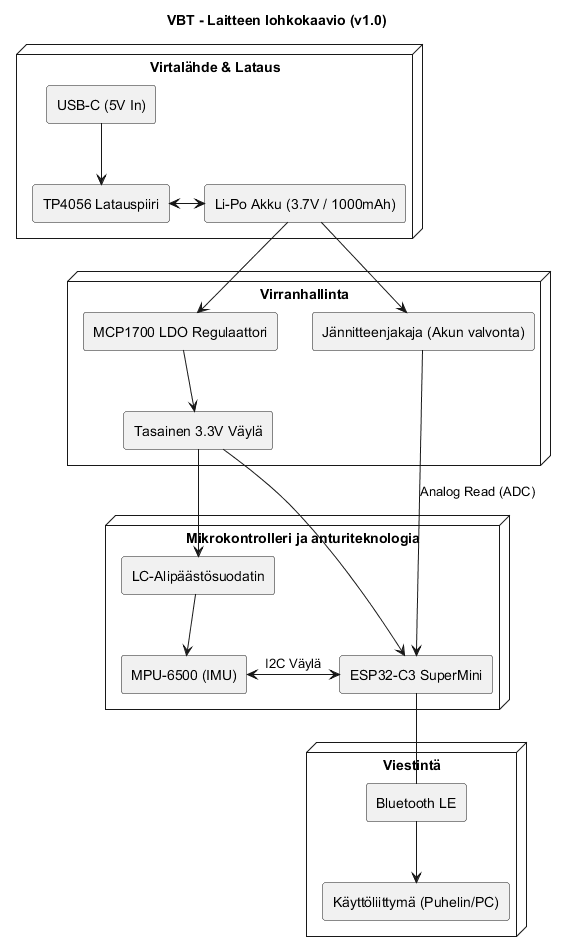
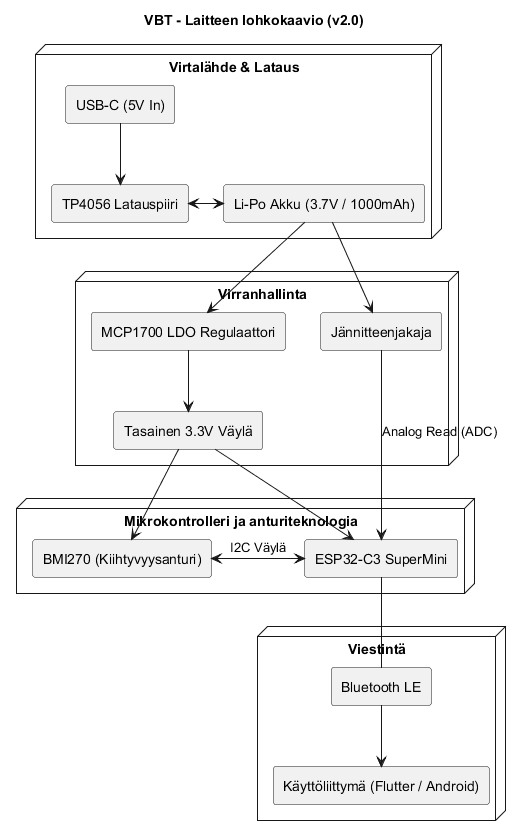
lohkokaavio paivitetty

diff --git a/flutter/lib/screens/main.dart b/flutter/lib/screens/main.dart
@@ -1,0 +1,341 @@
+import 'package:flutter/material.dart';
+import 'package:flutter_application_1/models/exercise_model.dart';
+import 'package:flutter_application_1/services/ble_service.dart';
+import 'package:flutter_application_1/widgets/velocity_chart.dart';
+import 'package:fl_chart/fl_chart.dart';
+import 'package:flutter_blue_plus/flutter_blue_plus.dart';
+import 'package:audioplayers/audioplayers.dart';
+
+void main() {
+  runApp(const VBTApp());
+}
+
+class VBTApp extends StatelessWidget {
+  const VBTApp({super.key});
+
+  @override
+  Widget build(BuildContext context) {
+    return MaterialApp(
+      title: 'VBT Pro',
+      theme: ThemeData.dark().copyWith(
+        primaryColor: Colors.cyanAccent,
+        scaffoldBackgroundColor: const Color(0xFF121212),
+      ),
+      home: const VBTPage(),
+      debugShowCheckedModeBanner: false,
+    );
+  }
+}
+
+class VBTPage extends StatefulWidget {
+  const VBTPage({super.key});
+
+  @override
+  State<VBTPage> createState() => _VBTPageState();
+}
+
+class _VBTPageState extends State<VBTPage> {
+  final BLEService _bleService = BLEService();
+
+
+  final AudioPlayer _audioPlayer = AudioPlayer(); // Äänisoitin
+  int _repCount = 0;// Toistolaskuri
+
+
+
+  ExerciseTarget _currentExercise = exerciseData["Takakyykky"]!;
+
+  List<FlSpot> _spots = [];
+  double _currentVelocity = 0.0;
+  double _xValue = 0.0;
+  bool _isRecording = false;
+  bool _isConnected = false;
+  int _batteryLevel = 0;
+  
+  double _peakOfRep = 0.0;     // Toiston korkein nopeus
+  double _meanOfRep = 0.0;     // Toiston keskinopeus
+  List<double> _repSamples = []; // Tämän hetkisen toiston kaikki näytteet
+
+  @override
+  void initState() {
+    super.initState();
+
+  _bleService.velocityStream.listen((velocity) {
+    if (mounted) {
+      setState(() {
+        _currentVelocity = velocity;
+
+        if (_isRecording) {
+          _xValue += 1;
+          _spots.add(FlSpot(_xValue, velocity));
+
+          if (velocity > 0.15) {
+            _repSamples.add(velocity);
+            if (velocity > _peakOfRep) _peakOfRep = velocity;
+          }else if (velocity <= 0.1 && _repSamples.length > 3) {
+            // TOISTO PÄÄTTYI
+            _meanOfRep = _repSamples.reduce((a, b) => a + b) / _repSamples.length;
+            _repSamples.clear();
+            
+            _repCount++; // Kasvatetaan laskuria
+            
+            // SOITETAAN ÄÄNIMERKKI (lyhyt piippaus)
+            _audioPlayer.play(AssetSource('beep.mp3')); 
+
+          }
+        }
+      });
+    }
+  });
+
+    _bleService.batteryStream.listen((level) {
+  if (mounted) {
+    setState(() => _batteryLevel = level);
+  }
+  });
+  }
+
+  // APUFUNKTIO VÄRILLE
+  Color _getHeroColor() {
+    double valueToCompare = (_currentExercise.id == 0 || _currentExercise.id >= 4) 
+        ? _peakOfRep 
+        : _meanOfRep;
+
+    // Jos ollaan liikkeessä, käytetään reaaliaikaista väriä, muuten viimeisintä tulosta
+    if (_currentVelocity > 0.1) valueToCompare = _currentVelocity;
+
+    if (valueToCompare == 0) return Colors.white;
+    if (valueToCompare < _currentExercise.minTarget) return Colors.redAccent;
+    if (valueToCompare > _currentExercise.maxTarget) return Colors.blueAccent;
+    return Colors.greenAccent;
+  }
+
+  Future<void> _handleConnect() async {
+    setState(() => _isConnected = false);
+    try {
+      await FlutterBluePlus.startScan(timeout: const Duration(seconds: 4));
+      if (mounted) _showDevicePicker();
+    } catch (e) {
+      debugPrint("Skannausvirhe: $e");
+    }
+  }
+
+  void _showDevicePicker() {
+    showModalBottomSheet(
+      context: context,
+      shape: const RoundedRectangleBorder(borderRadius: BorderRadius.vertical(top: Radius.circular(20))),
+      builder: (context) {
+        return StreamBuilder<List<ScanResult>>(
+          stream: FlutterBluePlus.scanResults,
+          initialData: const [],
+          builder: (context, snapshot) {
+            final results = snapshot.data ?? [];
+            final filteredResults = results.where((r) => r.device.platformName.isNotEmpty).toList();
+            return Column(
+              mainAxisSize: MainAxisSize.min,
+              children: [
+                const Padding(
+                  padding: EdgeInsets.all(16.0),
+                  child: Text("Valitse VBT-Sensori", style: TextStyle(fontSize: 18, fontWeight: FontWeight.bold)),
+                ),
+                if (filteredResults.isEmpty) const Padding(padding: EdgeInsets.all(20.0), child: CircularProgressIndicator()),
+                Expanded(
+                  child: ListView.builder(
+                    itemCount: filteredResults.length,
+                    itemBuilder: (context, index) {
+                      final r = filteredResults[index];
+                      return ListTile(
+                        leading: const Icon(Icons.bluetooth),
+                        title: Text(r.device.platformName),
+                        onTap: () async {
+                          Navigator.pop(context);
+                          await FlutterBluePlus.stopScan();
+                          await _bleService.connect(r.device);
+                          if (mounted) setState(() => _isConnected = true);
+                        },
+                      );
+                    },
+                  ),
+                ),
+              ],
+            );
+          },
+        );
+      },
+    );
+  }
+
+  void _handleDisconnect() {
+    _bleService.device?.disconnect();
+    setState(() {
+      _isConnected = false;
+      _batteryLevel = 0;
+    });
+  }
+
+  @override
+  Widget build(BuildContext context) {
+    // Lasketaan näytettävä arvo
+    String displayValue = _currentVelocity.toStringAsFixed(2);
+    if (_currentVelocity < 0.1 && (_peakOfRep > 0 || _meanOfRep > 0)) {
+      displayValue = (_currentExercise.id == 0 || _currentExercise.id >= 4)
+          ? _peakOfRep.toStringAsFixed(2)
+          : _meanOfRep.toStringAsFixed(2);
+    }
+
+    return Scaffold(
+      appBar: AppBar(
+        title: const Text("VBT ANALYZER"),
+        actions: [
+          if (_isConnected) 
+            Center(child: Padding(
+              padding: const EdgeInsets.only(right: 16.0),
+              child: Text("$_batteryLevel%", style: const TextStyle(color: Colors.greenAccent, fontWeight: FontWeight.bold)),
+            )),
+        ],
+      ),
+      body: Column(
+        children: [
+          Padding(
+            padding: const EdgeInsets.all(8.0),
+            child: Row(
+              children: [
+                Expanded(
+                  child: ElevatedButton.icon(
+                    icon: Icon(_isConnected ? Icons.bluetooth_connected : Icons.bluetooth),
+                    label: Text(_isConnected ? "YHDISTETTY" : "YHDISTÄ"),
+                    onPressed: _isConnected ? null : _handleConnect,
+                    style: ElevatedButton.styleFrom(backgroundColor: Colors.blueGrey),
+                  ),
+                ),
+                const SizedBox(width: 8),
+                IconButton(
+                  icon: const Icon(Icons.bluetooth_disabled, color: Colors.redAccent),
+                  onPressed: _isConnected ? _handleDisconnect : null,
+                ),
+              ],
+            ),
+          ),
+
+          Padding(
+            padding: const EdgeInsets.symmetric(horizontal: 16.0),
+            child: Container(
+              padding: const EdgeInsets.symmetric(horizontal: 12),
+              decoration: BoxDecoration(
+                borderRadius: BorderRadius.circular(8),
+                border: Border.all(color: Colors.cyanAccent.withOpacity(0.5)),
+              ),
+              child: DropdownButtonHideUnderline(
+                child: DropdownButton<String>(
+                  value: _currentExercise.name,
+                  isExpanded: true,
+                  items: exerciseData.keys.map((String key) {
+                    return DropdownMenuItem<String>(value: key, child: Text(key));
+                  }).toList(),
+                  onChanged: (String? newValue) {
+                    if (newValue != null) {
+                      setState(() {
+                        _currentExercise = exerciseData[newValue]!;
+                        _bleService.sendExercise(_currentExercise.id);
+                        // Nollataan edellisen liikkeen huiput
+                        _peakOfRep = 0;
+                        _meanOfRep = 0;
+                      });
+                    }
+                  },
+                ),
+              ),
+            ),
+          ),
+
+          Expanded(
+            flex: 2,
+            child: Center(
+              child: Column(
+                mainAxisAlignment: MainAxisAlignment.center,
+                children: [
+                  // --- TÄSSÄ ON UUSI LASKURI ---
+                  Text(
+                    "REPS: $_repCount",
+                    style: const TextStyle(
+                      fontSize: 30, 
+                      color: Colors.cyanAccent, 
+                      fontWeight: FontWeight.bold
+                    ),
+                  ),
+                  const SizedBox(height: 10), // Pieni väli laskurin ja nopeuden välissä
+                  
+                  Text(
+                    displayValue,
+                    style: TextStyle(
+                      fontSize: 100, 
+                      fontWeight: FontWeight.bold,
+                      color: _getHeroColor(),
+                    ),
+                  ),
+                  Text(
+                    (_currentExercise.id == 0 || _currentExercise.id >= 4) 
+                        ? "PEAK VELOCITY (m/s)" 
+                        : "MEAN VELOCITY (m/s)",
+                    style: const TextStyle(fontSize: 16, color: Colors.grey),
+                  ),
+                ],
+              ),
+            ),
+          ),
+
+          Expanded(
+            flex: 2,
+            child: Padding(
+              padding: const EdgeInsets.all(16.0),
+              child: VelocityChart(
+                spots: _spots,
+                maxY: _currentExercise.maxY,
+              ),
+            ),
+          ),
+
+          SafeArea(
+            child: Padding(
+              padding: const EdgeInsets.all(16.0),
+              child: SizedBox(
+                width: double.infinity,
+                height: 70,
+                child: ElevatedButton(
+                  style: ElevatedButton.styleFrom(
+                    backgroundColor: _isRecording ? Colors.redAccent : Colors.green,
+                    shape: RoundedRectangleBorder(borderRadius: BorderRadius.circular(12)),
+                  ),
+                  onPressed: () {
+                    setState(() {
+                      if (!_isRecording) {
+                        _spots.clear();
+                        _xValue = 0;
+                        _peakOfRep = 0; // NOLLAUS UUDELLE SARJALLE
+                        _meanOfRep = 0;
+                        _repCount = 0;
+                        _repSamples.clear();
+                      }
+                      _isRecording = !_isRecording;
+                    });
+                  },
+                  child: Text(
+                    _isRecording ? "LOPETA SARJA" : "ALOITA SARJA",
+                    style: const TextStyle(fontSize: 22, fontWeight: FontWeight.bold),
+                  ),
+                ),
+              ),
+            ),
+          ),
+        ],
+      ),
+    );
+  }
+
+  @override
+  void dispose() {
+    _bleService.dispose();
+    _audioPlayer.dispose();
+    super.dispose();
+  }
+}
